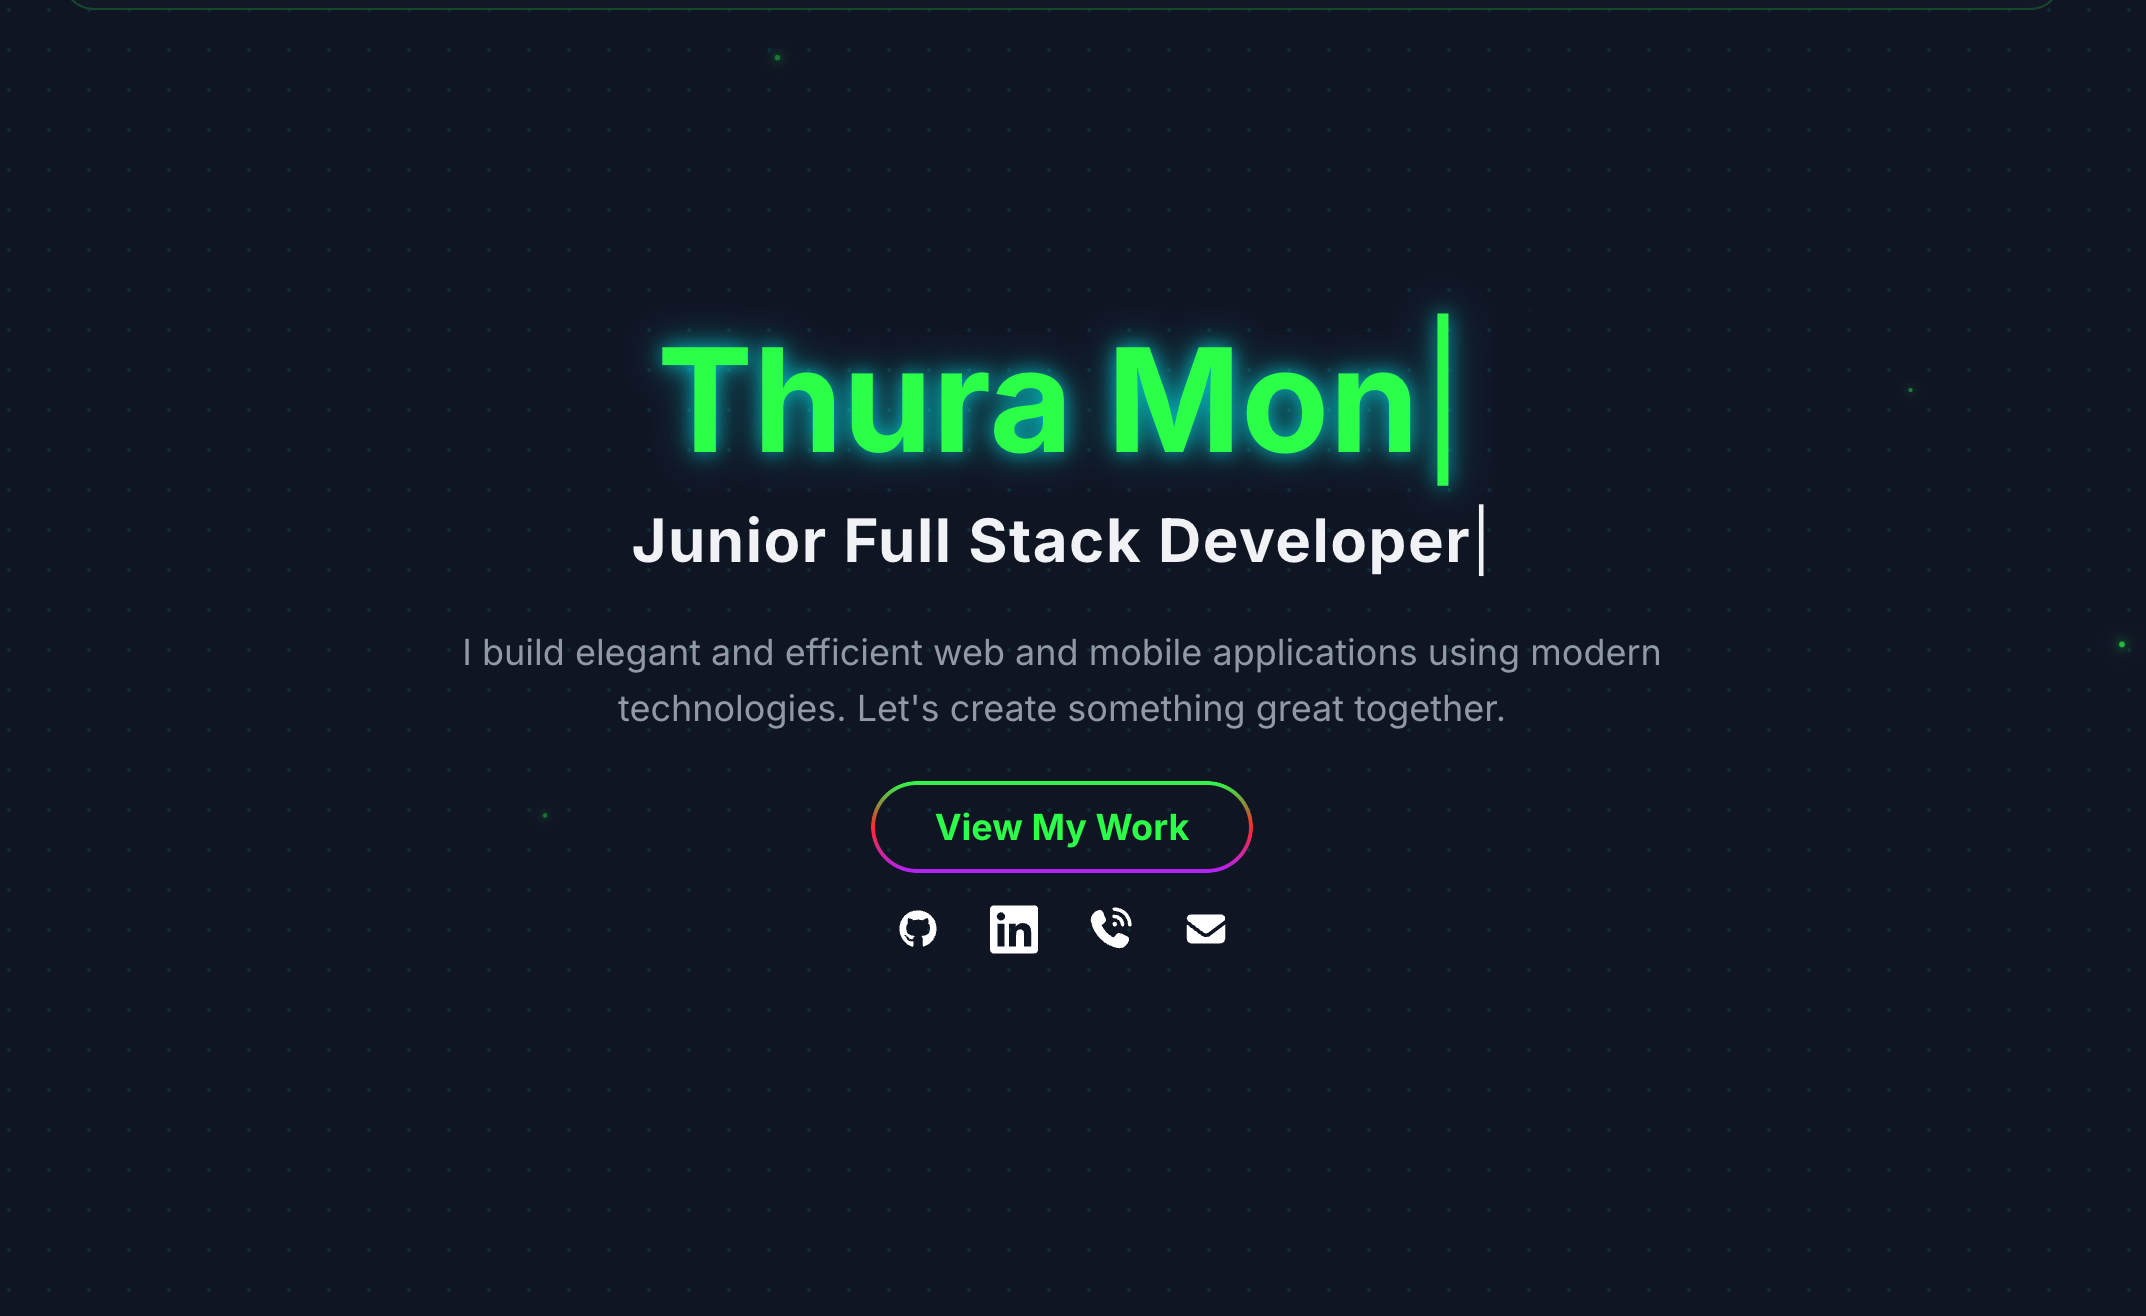
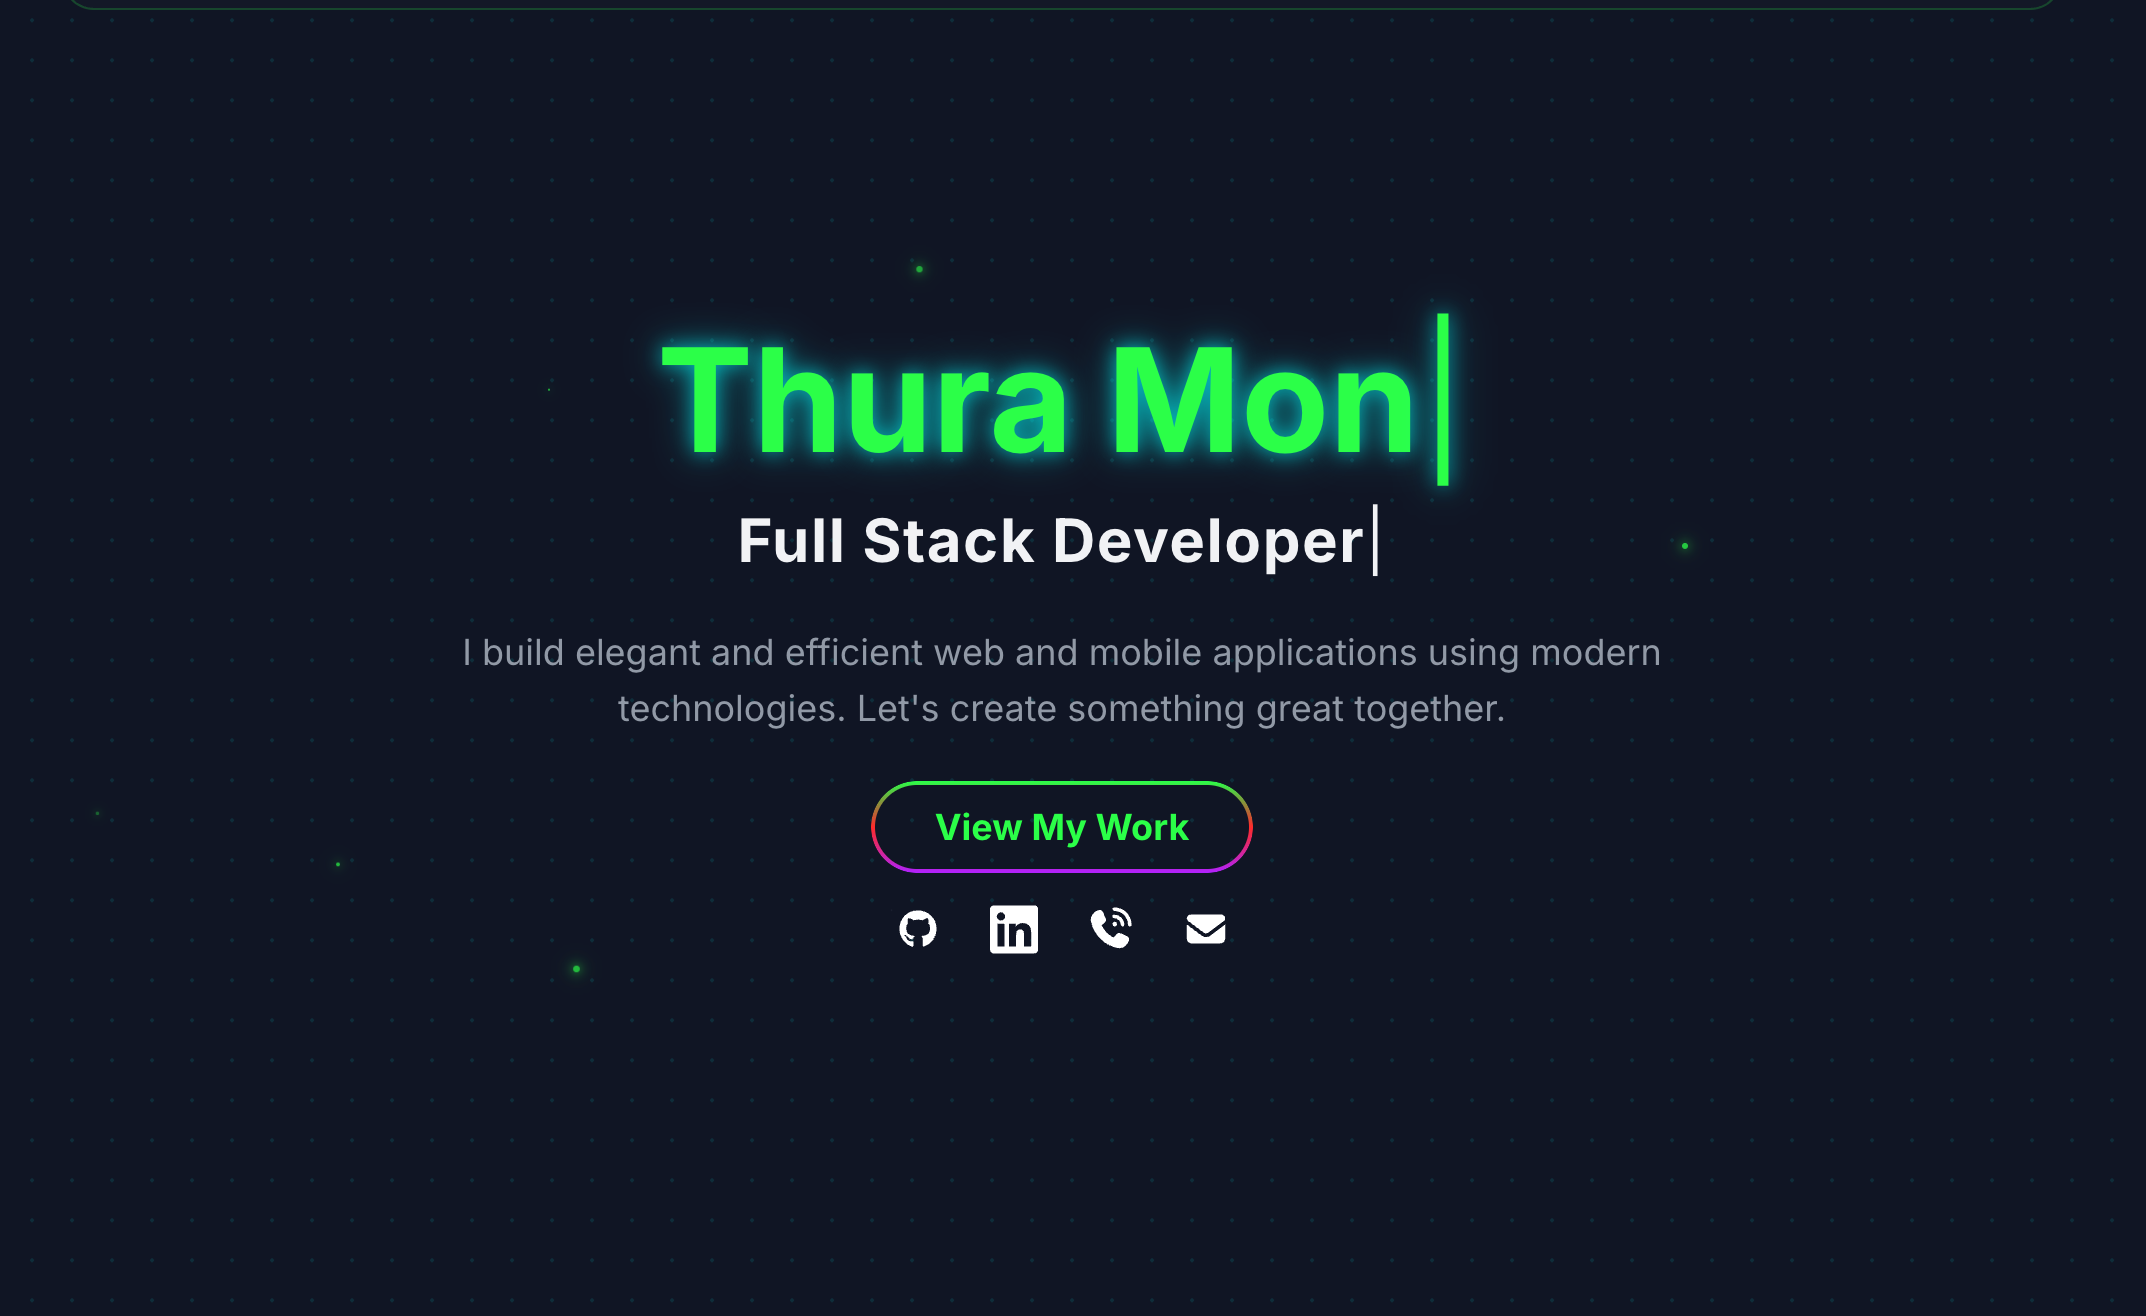
update og image

Changed region(s): [[0.281, 0.3739, 0.6869, 0.4362]]

diff --git a/index.html b/index.html
@@ -1540,7 +1540,7 @@
         function startTypingEffect() {
             typeWriter("Thura Mon", mainHeadingText, () => {
                 setTimeout(() => {
-                    typeWriter("Junior Full Stack Developer", subHeadingText);
+                    typeWriter("Full Stack Developer", subHeadingText);
                 }, 700);
             });
         }
